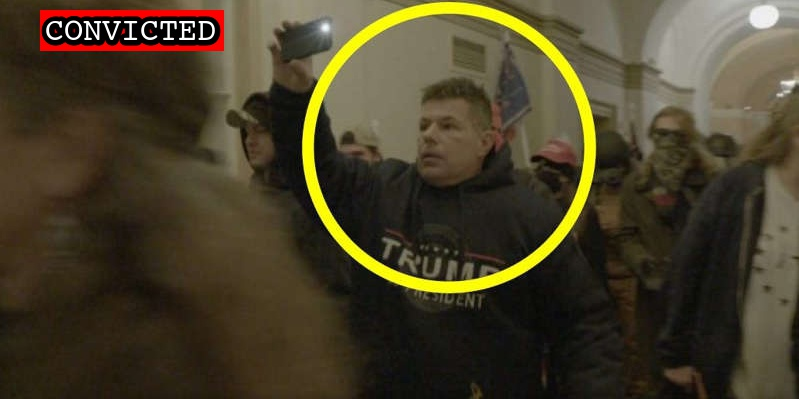
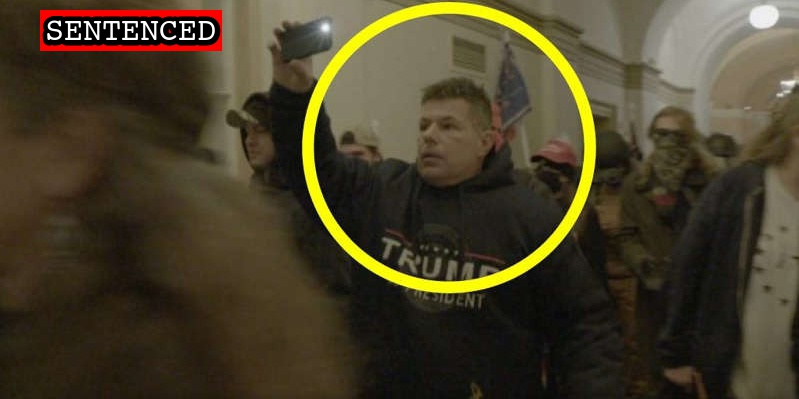
New sentence

Changed region(s): [[0.03, 0.0301, 0.2403, 0.1203], [0.2703, 0.0301, 0.3004, 0.1203]]

diff --git a/docs/_suspects/anthony-vuksanaj.md b/docs/_suspects/anthony-vuksanaj.md
@@ -4,13 +4,13 @@ lastName: Vuksanaj
 hashtag: AnthonyVuksanaj
 aka:
 residence: New York
-status: Convicted
+status: Sentenced
 date: 2021-09-28
 charged: 2021-09-28
 indicted:
 convicted: 2022-01-20
 acquitted:
-sentenced:
+sentenced: 2022-04-29
 dismissed:
 deceased:
 plea_hearing: 2022-01-20
@@ -36,12 +36,17 @@ published: true
 caseNumber: 1:21-cr-620
 videos:
 charges:
-- code: 40 USC § 5104(e)(2)(G)
-  title: Parading, demonstrating or picketing in a Capitol building
-  url: https://www.law.cornell.edu/uscode/text/40/5104
-  felony: false
+  - code: 40 USC § 5104(e)(2)(G)
+    title: Parading, demonstrating or picketing in a Capitol building
+    url: https://www.law.cornell.edu/uscode/text/40/5104
+    felony: false
 sentence:
+  - 42 days jail time
+  - 36 months probation
+  - $2,000 fine
+  - $500 restitution
 ---
+
 - [News Report](https://www.msn.com/en-us/news/crime/mahopac-man-charged-in-us-capitol-riot-after-westchester-robbery-arrest/ar-AAP2E9C)
 - [Statement of Facts](https://www.justice.gov/usao-dc/case-multi-defendant/file/1457721/download)
 - [Information](https://www.justice.gov/usao-dc/case-multi-defendant/file/1457731/download)
